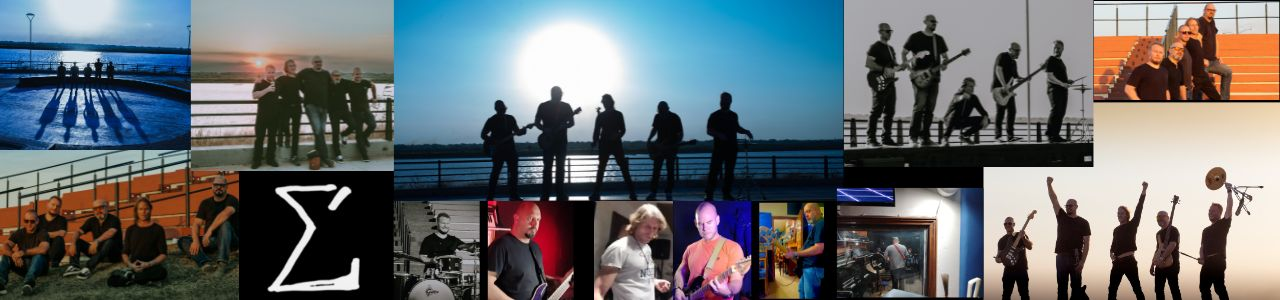
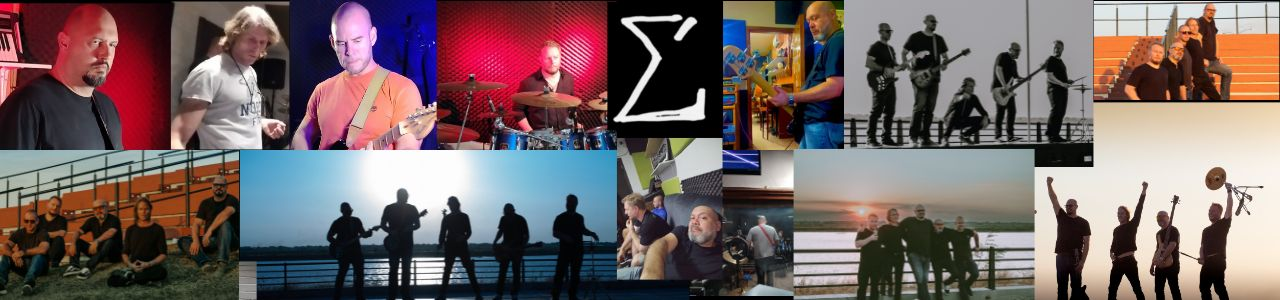
modificando jsx y agregando foto

diff --git a/src/App.jsx b/src/App.jsx
@@ -13,128 +13,117 @@ export default function App() {
   <img src="/epika-web/logoparawebepika.jpg" alt="ÉPIKA Logo" className="logo-image" />
         
         {/* Ícono de hamburguesa para la versión móvil */}
-        <div className="hamburger" onClick={() => setIsMenuOpen(!isMenuOpen)}>
-          <FaBars size={30} />
-        </div>
-        
-        <nav className={`nav ${isMenuOpen ? 'open' : ''}`}>
-          {sections.map((section, index) => (
-            <a
-              key={index}
-              href={`#${section.toLowerCase()}`}
-              className={`nav-link ${active === section ? 'active' : ''}`}
-              onClick={() => setActive(section)}
-            >
-              {section}
-            </a>
-          ))}
-        </nav>
-
-        <div className="social-links">
-          <a href="https://www.instagram.com/epika_band/" target="_blank" rel="noopener noreferrer">
-            <FaInstagram size={24} />
-          </a>
-          <a href="https://www.youtube.com/@Épika-Py" target="_blank" rel="noopener noreferrer">
-            <FaYoutube size={24} />
-          </a>
-          <a href="https://open.spotify.com/artist/5lvdH6XeqBRX7ek7p5orHw?si=6l1uww1nR2-_rrglaW4PhQ" target="_blank" rel="noopener noreferrer">
-            <FaSpotify size={24} />
-          </a>
-        </div>
-      </header>
-      <main className="main">
-        <section id="inicio" className="section section-fullscreen parallax">
-          <div className="intro">
-          <h2 className="alpha-text psychedelic-text"><span>ÉPIKA</span></h2>
-            <p>Banda de rock alternativo de Sudamérica (Asunción-Paraguay)</p>
+          <div className="hamburger" onClick={() => setIsMenuOpen(!isMenuOpen)}>
+            <FaBars size={30} />
           </div>
+          
+          <nav className={`nav ${isMenuOpen ? 'open' : ''}`}>
+            {sections.map((section, index) => (
+              <a
+                key={index}
+                href={`#${section.toLowerCase()}`}
+                className={`nav-link ${active === section ? 'active' : ''}`}
+                onClick={() => setActive(section)}
+              >
+                {section}
+              </a>
+            ))}
+          </nav>
+
+          <div className="social-links">
+            <a href="https://www.instagram.com/epika_band/" target="_blank" rel="noopener noreferrer">
+              <FaInstagram size={24} />
+            </a>
+            <a href="https://www.youtube.com/@Épika-Py" target="_blank" rel="noopener noreferrer">
+              <FaYoutube size={24} />
+            </a>
+            <a href="https://open.spotify.com/artist/5lvdH6XeqBRX7ek7p5orHw?si=6l1uww1nR2-_rrglaW4PhQ" target="_blank" rel="noopener noreferrer">
+              <FaSpotify size={24} />
+            </a>
+          </div>
+              </header>
+              <main className="main">
+          <section id="inicio" className="section section-fullscreen parallax">
+            <div className="intro">
+            <h2 className="alpha-text psychedelic-text"><span>ÉPIKA</span></h2>
+              <p>Banda de rock alternativo de Sudamérica (Asunción-Paraguay)</p>
+            </div>
+          </section>
+          <section id="musicas" className="section fade-in">
+          <h2 className="psychedelic-text">Músicas</h2>
+          
+<ul className="spotify-list">
+  <li><a href="https://open.spotify.com/track/2I7EMvGdnAIohAFeY02OHm" target="_blank" rel="noopener noreferrer">🎵 Canción 1</a></li>
+  <li><a href="https://open.spotify.com/track/6R0Dz736ZNvqFvuf5TSoDX" target="_blank" rel="noopener noreferrer">🎵 Canción 2</a></li>
+  <li><a href="https://open.spotify.com/track/1XZPHXQT7E7uschLYMWoNd" target="_blank" rel="noopener noreferrer">🎵 Canción 3</a></li>
+  <li><a href="https://open.spotify.com/track/0drYdaST9gFQgxN6hRGyd4" target="_blank" rel="noopener noreferrer">🎵 Canción 4</a></li>
+  <li><a href="https://open.spotify.com/track/1crbauq36URdbFmGzBVX40" target="_blank" rel="noopener noreferrer">🎵 Canción 5</a></li>
+  <li><a href="https://open.spotify.com/track/4mP0Ua9PU1tWdmSfwdN72o" target="_blank" rel="noopener noreferrer">🎵 Canción 6</a></li>
+</ul>
+
+
+
         </section>
-        <section id="musicas" className="section fade-in">
-  <h2 className="psychedelic-text">Músicas</h2>
-  
-<iframe
-  src="https://open.spotify.com/embed/track/2I7EMvGdnAIohAFeY02OHm"
-  width="25%"
-  height="100"
-  frameBorder="0"
-  allow="encrypted-media">
-</iframe>
+          <section id="bio" className="section fade-in">
+            <h2 className="psychedelic-text">Biografía</h2>
+            <img src="/epika-web/carrusel1.jpg" alt="ÉPIKA Band" className="bio-photo glitch-effect" />
+            <p>Épika, banda de rock que fusiona hard, power y noise-rock, se formó en 2001, en Asunción-Paraguay, que en poco tiempo tuvo que separarse.
+        Durante la pandemia, después de 18 años los miembros se reencontraron, sumando a un nuevo integrante.
+        Este resurgimiento trae consigo una nueva perspectiva y una intensificación de su distintivo sonido ecléctico.<br></br><br></br>
+        Guitarras: Alex Giaever, Paolo Castiñeira<br></br>
+        Batería: Rubén Arce<br></br>
+        Bajo: Fran Delgado<br></br>
+        Voz: Rodrigo Pampliega</p>
 
-<iframe
-  src="https://open.spotify.com/embed/track/6R0Dz736ZNvqFvuf5TSoDX"
-  width="25%"
-  height="100"
-  frameBorder="0"
-  allow="encrypted-media">
-</iframe>
+        <p style={{ fontStyle: 'italic', fontSize: '0.9em', color: 'gray' }}>
+  Las grabaciones fueron hechas en Sátiro Estudios por Felipe Achaval y en BlueNoise Records por Wladimir Woitas -que también colaboró en los teclados y synth- <br></br> y Colo O'Nell, en la remezcla y ecualizaciones.
+</p>
 
-<iframe
-  src="https://open.spotify.com/embed/track/1XZPHXQT7E7uschLYMWoNd"
-  width="25%"
-  height="100"
-  frameBorder="0"
-  allow="encrypted-media">
-</iframe>
+          </section>
+          <section id="videos" className="section fade-in">
+            <h2 className="psychedelic-text">Videos</h2>
+            <a href="https://www.youtube.com/@Épika-Py" target="_blank" className="button">
+            Visitar nuestro canal YOUTUBE
+          </a>
+          </section>
 
-<iframe
-  src="https://open.spotify.com/embed/track/0drYdaST9gFQgxN6hRGyd4"
-  width="25%"
-  height="100"
-  frameBorder="0"
-  allow="encrypted-media">
-</iframe>
+          <div class="apartados-container">
+  <div class="evento">
+    <h3>Fechas</h3>
+    <ul class="fechas">
+      <li>01 de abril 2025 - Asunción, Paraguay</li>
+      <li>15 de mayo 2025 - Ciudad del Este, Paraguay</li>
+      <li>30 de junio 2025 - Buenos Aires, Argentina</li>
+      <li>15 de julio 2025 - Santiago, Chile</li>
+    </ul>
+  </div>
 
-<iframe
-  src="https://open.spotify.com/embed/track/1crbauq36URdbFmGzBVX40"
-  width="25%"
-  height="100"
-  frameBorder="0"
-  allow="encrypted-media">
-</iframe>
+  <div class="apartados-container">
+  <div class="evento">
+    <h3><a href="#" class="btn">Galería de Fotos</a></h3>
+  </div>
 
-<iframe
-  src="https://open.spotify.com/embed/track/4mP0Ua9PU1tWdmSfwdN72o"
-  width="25%"
-  height="100"
-  frameBorder="0"
-  allow="encrypted-media">
-</iframe>
+  <div class="galeria">
+    <h3><a href="#" class="btn">Letras de las Canciones</a></h3>
+  </div>
+</div>
+
+</div>
 
 
-</section>
-        <section id="bio" className="section fade-in">
-          <h2 className="psychedelic-text">Biografía</h2>
-          <img src="/epika-web/carrusel1.jpg" alt="ÉPIKA Band" className="bio-photo glitch-effect" />
-          <p>Épika, banda de rock que fusiona hard, power y noise-rock, se formó en 2001, en Asunción-Paraguay, que en poco tiempo tuvo que separarse.
-Durante la pandemia, después de 18 años los miembros se reencontraron, sumando a un nuevo integrante.
-Este resurgimiento trae consigo una nueva perspectiva y una intensificación de su distintivo sonido ecléctico.<br></br><br></br>
-Guitarras: Alex Giaever, Paolo Castiñeira<br></br>
-Batería: Rubén Arce<br></br>
-Bajo: Fran Delgado<br></br>
-Voz: Rodrigo Pampliega</p>
-        </section>
-        <section id="videos" className="section fade-in">
-          <h2 className="psychedelic-text">Videos</h2>
-          <a href="https://www.youtube.com/@Épika-Py" target="_blank" className="button">
-    Visitar nuestro canal YOUTUBE
-  </a>
-        </section>
-        <section id="fechas" className="section fade-in">
-          <h2 className="psychedelic-text">Fechas</h2>
-          <ul>
-            <li>Próximamente</li>
-            <li>Próximamente</li>
-            <li>Próximamente</li>
-          </ul>
-        </section>
-      </main>
-      <footer className="footer">
-        © 2024 ÉPIKA | Todos los derechos reservados | Desarrollado por <a href="https://frandelgadol.github.io/webcv/" target="_blank" rel="noopener noreferrer" className="dev-logo">
-          <img src="/epika-web/gasrecort3.png" alt="Fran Delgado Dev" />
-        </a>
-      </footer>
-      
-      {/* Inline CSS */}
+
+
+
+
+
+              </main>
+              <footer className="footer">
+          © 2024 ÉPIKA | Todos los derechos reservados | Desarrollado por <a href="https://frandelgadol.github.io/webcv/" target="_blank" rel="noopener noreferrer" className="dev-logo">
+            <img src="/epika-web/gasrecort3.png" alt="Fran Delgado Dev" />
+          </a>
+              </footer>
+              
+              {/* Inline CSS */}
       <style>{`
           .container {
             text-align: center;
@@ -221,6 +210,20 @@ Voz: Rodrigo Pampliega</p>
   position: relative;
   filter: contrast(1.2) brightness(1.1);
   transition: background-image 3s ease-in-out; /* Efecto disolución suave */
+}
+
+
+.parallax::before {
+  content: '';
+  position: absolute;
+  top: 0;
+  left: 0;
+  width: 100%;
+  height: 100%;
+  background: rgba(0, 0, 0, 0.4);
+  animation: float 10s infinite ease-in-out;
+  z-index: 1;
+  pointer-events: none;
 }
 
 @keyframes slideshow {
@@ -351,8 +354,142 @@ Voz: Rodrigo Pampliega</p>
   .nav-link:hover {
     color: #ff4081; /* Cambia el color al pasar el mouse */
   }
+
+
+.apartados-container {
+  display: flex; /* Utiliza flexbox para alinear los elementos en línea */
+  justify-content: space-between; /* Espacia los elementos de manera equitativa */
+  margin-top: 30px; /* Agrega un margen superior si lo necesitas */
 }
 
+.evento, .galeria, .letras {
+  flex: 1; /* Cada contenedor ocupa el mismo espacio disponible */
+  padding: 20px; /* Agrega algo de relleno a cada sección */
+  margin: 0 10px; /* Agrega un margen entre los elementos */
+  background-color: rgba(255, 255, 255, 0.1); /* Fondo sutil */
+  border-radius: 10px; /* Bordes redondeados */
+}
+
+.evento h3, .galeria h3, .letras h3 {
+  text-align: center; /* Centra los títulos */
+  color: rgb(196, 224, 41); /* Color similar al texto principal */
+}
+
+
+/* Estilo para la lista de fechas */
+.fechas {
+  list-style-type: none;
+  padding: 0;
+}
+
+.fechas li {
+  margin-bottom: 8px;
+}
+
+/* Estilo para los botones */
+.btn {
+  text-decoration: none;
+  color: #fff;
+  background-color: #007bff;
+  padding: 10px 20px;
+  border-radius: 5px;
+  display: inline-block;
+  margin-top: 10px;
+}
+
+.btn:hover {
+  background-color: #0056b3;
+}
+
+
+@media (max-width: 768px) {
+  .apartados-container {
+    flex-direction: column; /* En pantallas pequeñas, las secciones se apilan en lugar de alinearse en una fila */
+    gap: 10px;
+  }
+
+  .section {
+    flex: 1 1 100%; /* En pantallas pequeñas, las secciones ocuparán el 100% del ancho */
+    margin-bottom: 10px;
+  }
+}
+
+
+
+.section h2 {
+  font-size: 24px;
+  color: #333;
+  margin-bottom: 20px;
+}
+
+/* Estilo para la lista de conciertos */
+.conciertos-list {
+  list-style-type: none;  /* Elimina los puntos de la lista */
+  padding: 0;
+}
+
+.conciertos-list li {
+  font-size: 18px;
+  color: #333;
+  margin-bottom: 10px;
+}
+
+.conciertos-list li::before {
+  content: "🎸";  /* Emoji antes de cada fecha */
+  margin-right: 10px;
+  font-size: 20px;
+}
+
+/* Enlaces de las secciones */
+a {
+  text-decoration: none;
+  color: #007bff;
+}
+
+a:hover {
+  color: #ff6347;
+}
+
+}
+
+.spotify-list {
+  list-style: none;
+  padding: 0;
+  text-align: center;
+  display: inline-block;
+}
+
+.spotify-list li {
+  margin: 5px 0;
+  display: flex;
+  align-items: center;
+  justify-content: flex-start;
+}
+
+.spotify-list a {
+  text-decoration: none;
+  color: white;
+  background: linear-gradient(135deg, #1DB954, #0e7c3a);
+  padding: 8px 15px;
+  border-radius: 20px;
+  font-size: 14px;
+  font-weight: bold;
+  transition: all 0.3s ease-in-out;
+  display: flex;
+  align-items: center;
+  gap: 8px; /* Espacio entre el icono y el texto */
+  box-shadow: 0px 3px 8px rgba(0, 0, 0, 0.2);
+}
+
+.spotify-list a:hover {
+  background: linear-gradient(135deg, #0e7c3a, #1DB954);
+  transform: translateY(-2px);
+}
+
+.spotify-list a::before {
+  content: "🎵";
+  font-size: 16px;
+}
 
         }
         `}
